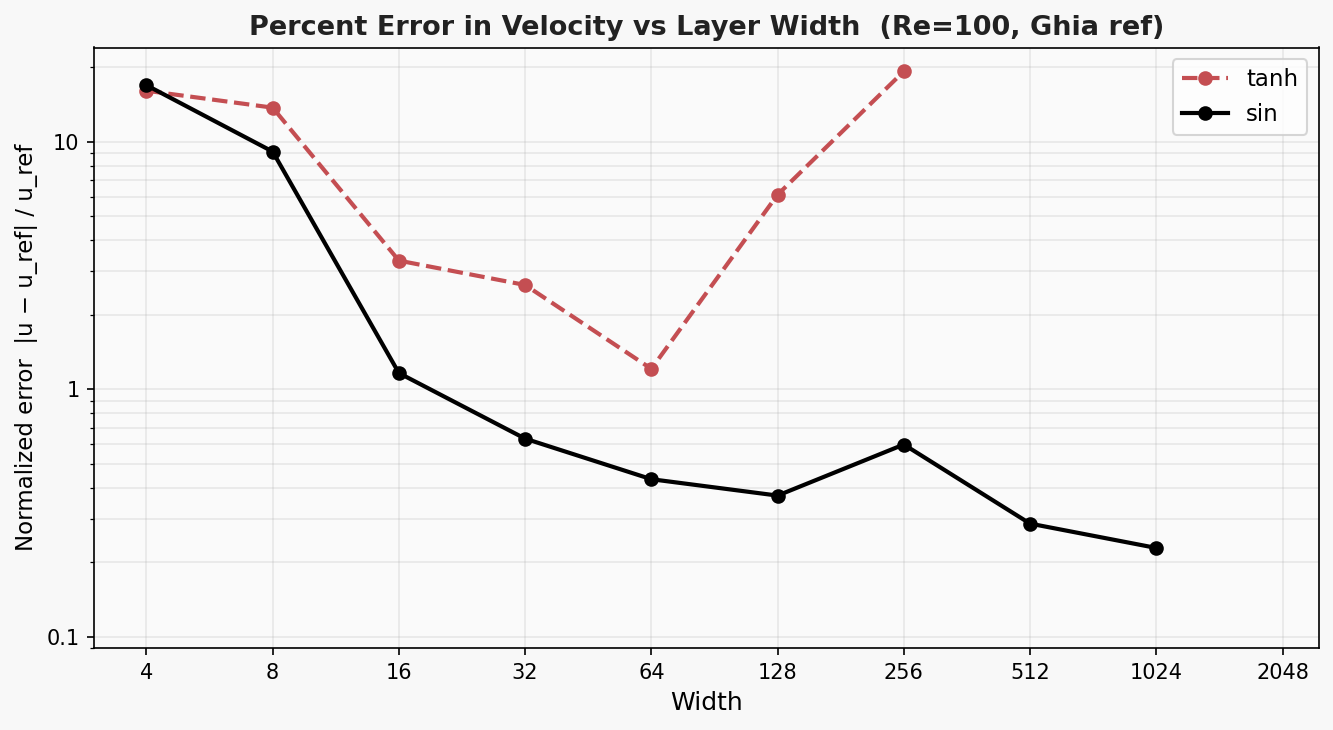
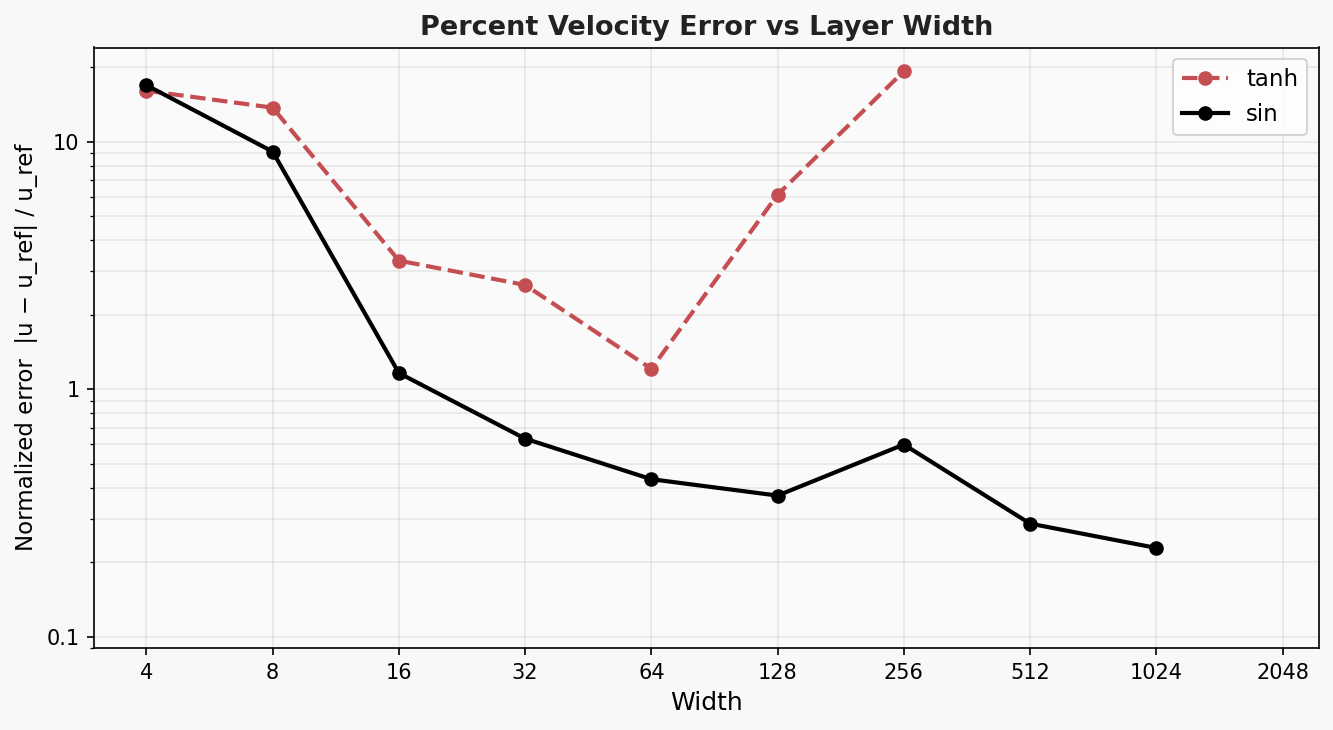
Update figure title

Changed region(s): [[0.1845, 0.0, 0.892, 0.0603]]

diff --git a/make_error_fig.py b/make_error_fig.py
@@ -45,7 +45,7 @@ ax.yaxis.set_major_formatter(ticker.FuncFormatter(lambda v, _: f"{v:g}"))
 
 ax.set_xlabel("Width", fontsize=12)
 ax.set_ylabel("Normalized error  |u − u_ref| / u_ref", fontsize=11)
-ax.set_title("Percent Error in Velocity vs Layer Width  (Re=100, Ghia ref)",
+ax.set_title("Percent Velocity Error vs Layer Width",
              fontsize=13, fontweight="bold", color="#222222")
 ax.legend(fontsize=11)
 ax.grid(True, which="both", alpha=0.25)
